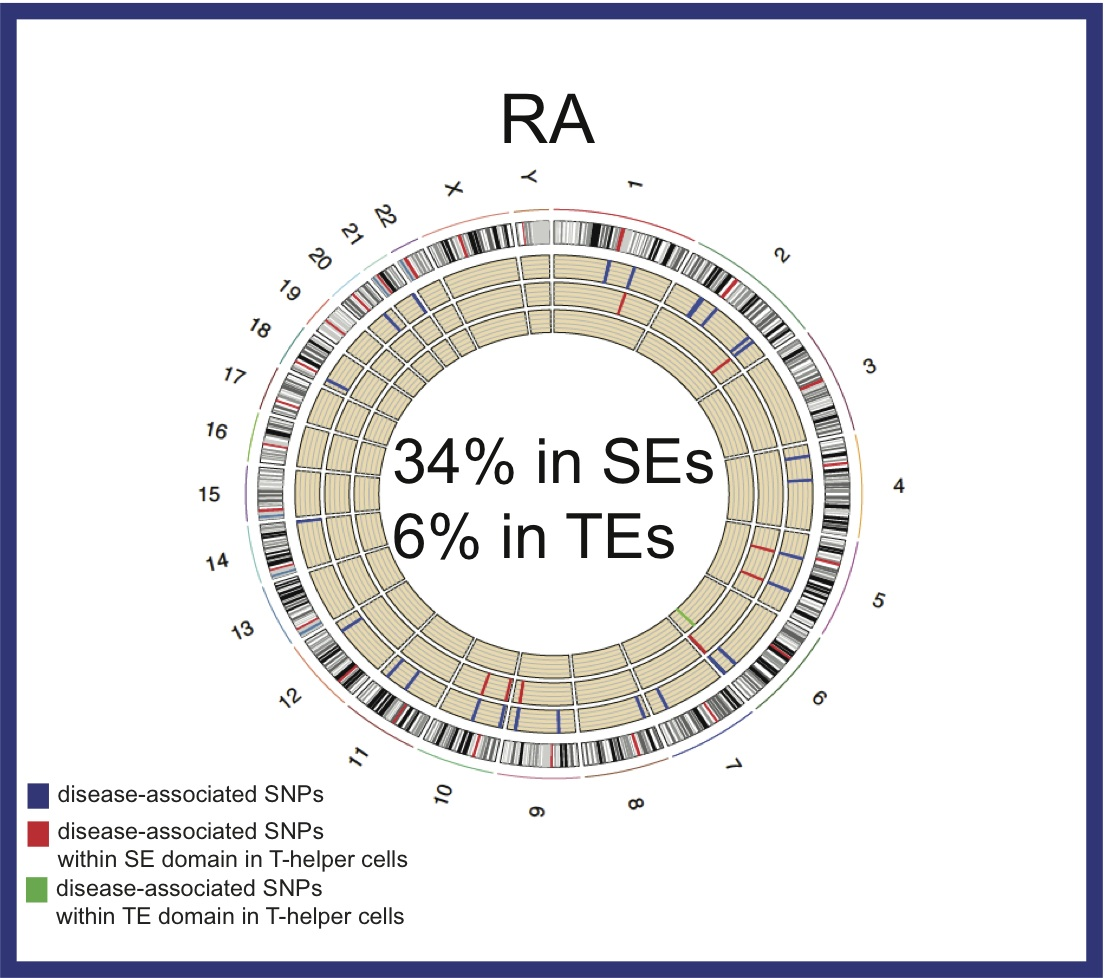
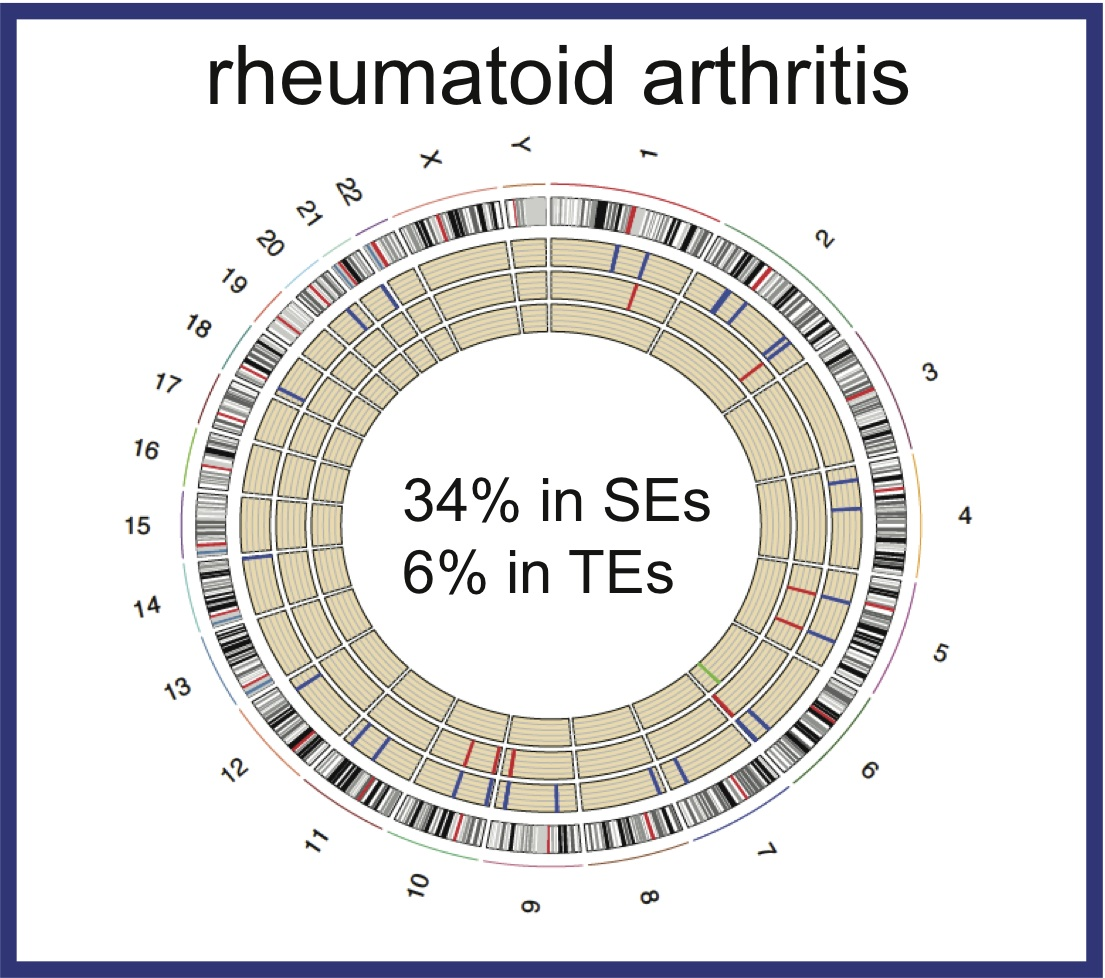
up

diff --git a/direction1.html b/direction1.html
@@ -20,11 +20,11 @@ However, a growing body of evidence supports a model in which immune cells exten
 Cells from a distinct ontogeny and differentiation stage employ a particular set of 'instructions&rsquo; to achieve a given transcriptional response. These instructions are referred as regulatory elements or enhancers and are genomic regions located outside protein-coding genes. 
 It has become clear that even cells of the same ontogeny located in distinct tissues would acquire similar transcriptional outcomes 
 but utilize vastly distinct enhancer elements. 
-Despite what we learned about the differential usage of enhancers in immune cells, 
+Despite what we have learned about the differential usage of enhancers in immune cells, 
 it is unclear how these regulatory elements are marked and instructed to be used in a manner that reflects the cell's 
 (a) ontogeny, (b) tissue environment, and (c) extracellular cues. 
 The collaborative and hierarchical binding of transcription factors have been linked to the formation of enhancer repertoire in immune cells. 
-A class of transcription factors known as pioneer factors prepares the genome and prime enhancers for their future activation. 
+A class of transcription factors known as pioneer factors prepares the genome and primes enhancers for their future activation. 
 Others known signal-dependent transcription factors work on a particular subset of regulatory elements from the large repertoire of potential enhancers 
 and prepare these elements for activation. Through the integration of many layers of genomic information and development of novel computational methods, 
 our lab is interested in (a) delineating transcription factors with hierarchical impacts on enhancer selection, (b) profiling partners of such transcription factors,
@@ -54,7 +54,7 @@ Ramos, H. L.,  Takahashi, H.,  Liang, J.,  Gutierrez-Cruz, G.,  Zang, C.,  Peng,
 </ul>
 <div id="footer">
 <div id="footer-text">
-Page generated 2015-04-06 16:16:48 EDT, by <a href="http://jemdoc.jaboc.net/">jemdoc</a>.
+Page generated 2015-04-09 16:06:48 EDT, by <a href="http://jemdoc.jaboc.net/">jemdoc</a>.
 </div>
 </div>
 </div>

diff --git a/ads.html b/ads.html
@@ -34,14 +34,14 @@ To learn more about faculty members with wet labs interested in such co-mentorsh
 </ul>
 <ul>
 <li><p>Graduate student positions (GCB, Computer Science, Engineering):
-The general research direction is to develop statistical signal processing and machine learning methods, apply them to analyze high-dimensional genomics data, and generate multiscale causal models.
+The general research goal is to develop statistical signal processing and machine learning methods, apply them to analyze high-dimensional genomics data, and generate multiscale causal models.
 We are interested in both practical and theoretical aspects of computational biology.
 Programming experience in Python, R, or C++; and proficiency in Linux are preferred.</p>
 </li>
 </ul>
 <ul>
 <li><p>Postdoctoral position (Computational): The primary research focus will be on developing novel computational methods for the integration of high-dimensional genomics data sets within the context of immune system. 
-We are recruiting creative and enthusiastic recent PhD graduates with background in statistics, computer science, electrical engineering, or physics. 
+We are recruiting creative and enthusiastic recent PhD graduates with a background in statistics, computer science, electrical engineering, or physics. 
 Experience in programming languages such as R, Python and C++; and proficiency in Linux are required.
 Experience in high-dimensional genomic analysis i.e. next-generation sequencing data is preferred. </p>
 </li>
@@ -54,7 +54,7 @@ Fellows interested in bioinformatics training are encouraged to send an email to
 <p>Read more about research directions <a href="research.html">here</a>. If you are interested in these opportunities, please send an email with your CV to vahedi at mail.med.upenn.edu.</p>
 <div id="footer">
 <div id="footer-text">
-Page generated 2015-04-06 09:54:17 EDT, by <a href="http://jemdoc.jaboc.net/">jemdoc</a>.
+Page generated 2015-04-09 16:08:28 EDT, by <a href="http://jemdoc.jaboc.net/">jemdoc</a>.
 </div>
 </div>
 </td>

diff --git a/direction2.html b/direction2.html
@@ -13,7 +13,7 @@
 <h1>Understanding the Biology of Immune-mediated Disease</h1>
 </div>
 <table class="imgtable"><tr><td>
-<img src="circos.jpg" alt="" width="350px" height="350px" />&nbsp;</td>
+<img src="circos.jpg" alt="" width="370px" height="350px" />&nbsp;</td>
 <td align="left"><p><b>Funding Source: NIAID Career Transition Award (K22)</b></p>
 <p>Autoimmune disorders such as inflammatory bowel disease (IBD) and rheumatoid arthritis (RA) are characterized by an inappropriate inflammatory response against self, resulting in tissue destruction. 
 Such immune-mediated disorders result from a complex interplay of genetic and environmental factors although knowledge of their pathogenic mechanisms remains limited. 
@@ -23,7 +23,7 @@ humans to autoimmune diseases. However, the vast majority of disease-associated
 genetic variants are outside protein-coding sequences, complicating their functional assessment. There
 is now overwhelming evidence that many non-coding variants contribute to disease by altering
 transcription factor binding sites at enhancer elements of key genes. 
-We would develop system-based methodolodies to superimpose genomic locations of active enhancers in human
+We will develop system-based methodologies to superimpose genomic locations of active enhancers in human
 immune cells on loci associated with diseases such as inflammatory bowel disease (IBD) and rheumatoid arthritis (RA). 
 The ultimate goal is to identify genes, pathways, and cell types that are affected by variants associated with autoimmune diseases 
 (Image in previous page adopted from Manolio, JCI, 2008).</p>
@@ -36,7 +36,7 @@ The ultimate goal is to identify genes, pathways, and cell types that are affect
 </ul>
 <div id="footer">
 <div id="footer-text">
-Page generated 2015-04-06 16:16:35 EDT, by <a href="http://jemdoc.jaboc.net/">jemdoc</a>.
+Page generated 2015-04-09 16:14:07 EDT, by <a href="http://jemdoc.jaboc.net/">jemdoc</a>.
 </div>
 </div>
 </div>

diff --git a/research.html b/research.html
@@ -45,7 +45,7 @@ Our laboratory develops computational methods to integrate diverse high throughp
 </td></tr></table>
 <div id="footer">
 <div id="footer-text">
-Page generated 2015-04-06 09:54:50 EDT, by <a href="http://jemdoc.jaboc.net/">jemdoc</a>.
+Page generated 2015-04-13 15:01:35 EDT, by <a href="http://jemdoc.jaboc.net/">jemdoc</a>.
 </div>
 </div>
 </td>
